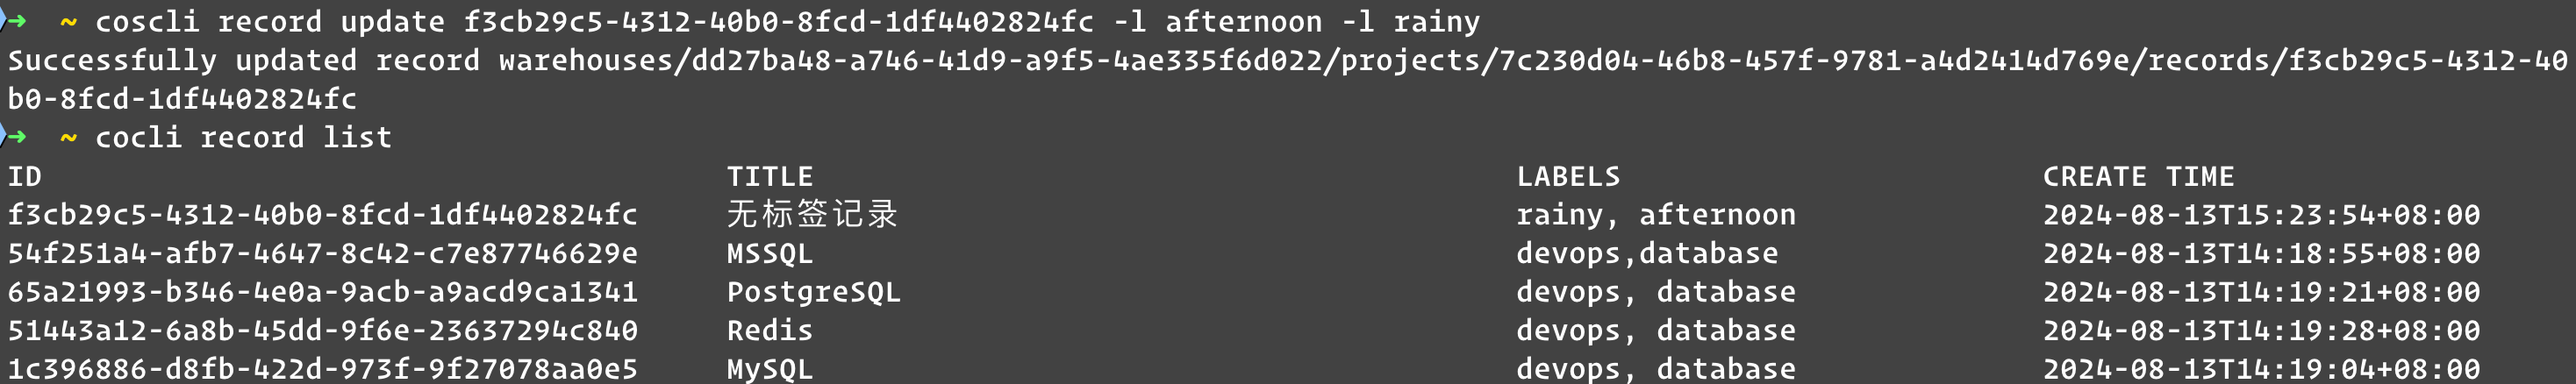
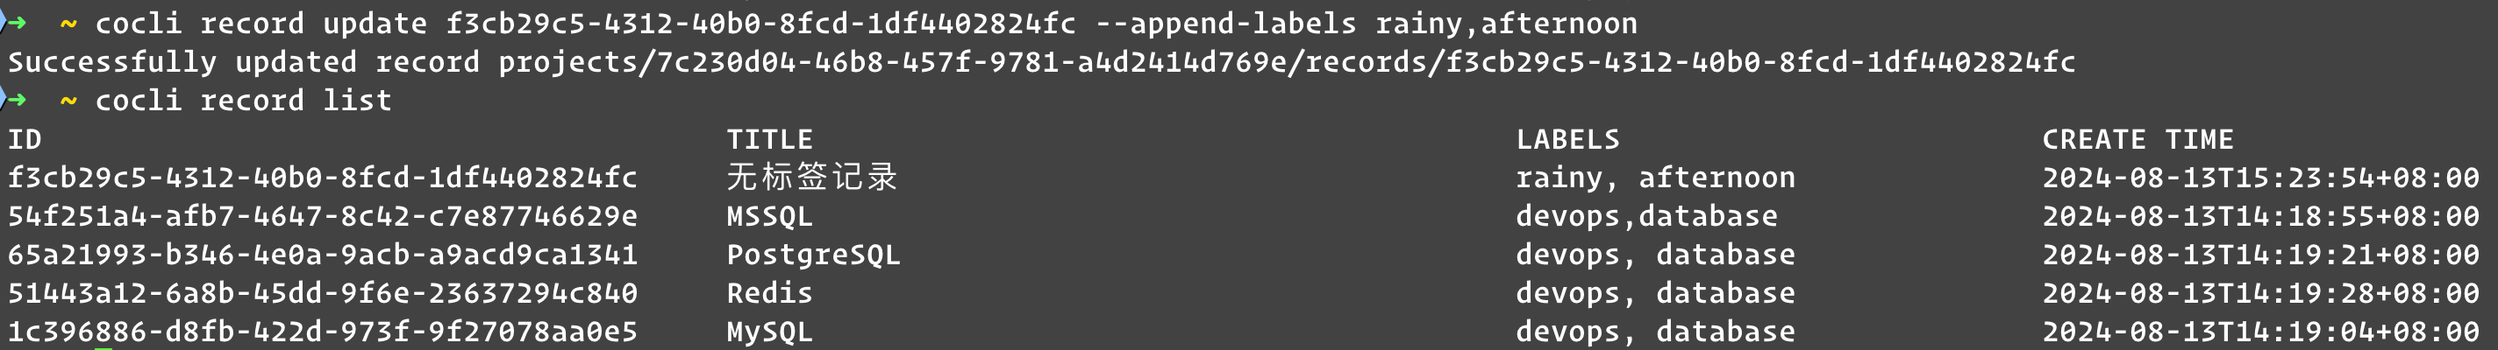
update cli operating records

diff --git a/docs/6-cli/2-cli-record-operations.md b/docs/6-cli/2-cli-record-operations.md
@@ -86,7 +86,7 @@ cocli record download acd706d9-0879-4d88-8550-e69bb8ff8f6b .
 ### 给记录添加标签
 
 ```
-cocli record update f3cb29c5-4312-40b0-8fcd-1df4402824fc -l afternoon,rainy
+cocli record update f3cb29c5-4312-40b0-8fcd-1df4402824fc --append-labels afternoon,rainy
 ```
 
 记录成功的添加了 afternoon 和 rainy 的标签
@@ -96,22 +96,22 @@ cocli record update f3cb29c5-4312-40b0-8fcd-1df4402824fc -l afternoon,rainy
 ### 替换记录的已有标签
 
 ```
-cocli record update d253523f-5a8a-40dd-8bd9-2d289367d6ff --update-labels sunny,morning
+cocli record update f3cb29c5-4312-40b0-8fcd-1df4402824fc --update-labels sunny,morning
 ```
 
 可以看到现在的记录的标签已经从 afternoon, rainy 更新成了 sunny, morning
 
-![cocli-record-update-labels](./img/cocli-record-update-labels.png)
+![cocli-record-update-labels](./img/2-cocli-record-update-labels.png)
 
 ### 删除指定标签
 
 ```
-cocli record update d253523f-5a8a-40dd-8bd9-2d289367d6ff --delete-labels sunny
+cocli record update f3cb29c5-4312-40b0-8fcd-1df4402824fc --delete-labels sunny
 ```
 
 通过命令行删除 `sunny` 标签，可以看到现在只剩下了 `morning` 的标签了
 
-![cocli-record-delete-labels-list](./img/cocli-record-delete-labels-list.png)
+![cocli-record-delete-labels-list](./img/2-cocli-record-delete-labels-list.png)
 
 ## 更新记录的原信息
 
@@ -120,7 +120,9 @@ cocli record update d253523f-5a8a-40dd-8bd9-2d289367d6ff --delete-labels sunny
 
 ```bash
 RECORD_ID=$(cocli record list | grep 'empty-record' | head -n1 | cut -d ' ' -f1)
-cocli record update $RECORD_ID -t "Fancy Empty Record Title" -d "Do you really need a description for an empty record"
+
+cocli record update $RECORD_ID -t "Fancy Empty Record Title" \n
+  -d "Do you really need a description for an empty record"
 ```
 
-![update-record-title-and-description](./img/update-record-title-and-description.png)
+![update-record-title-and-description](./img/2-update-record-title-and-description.png)
